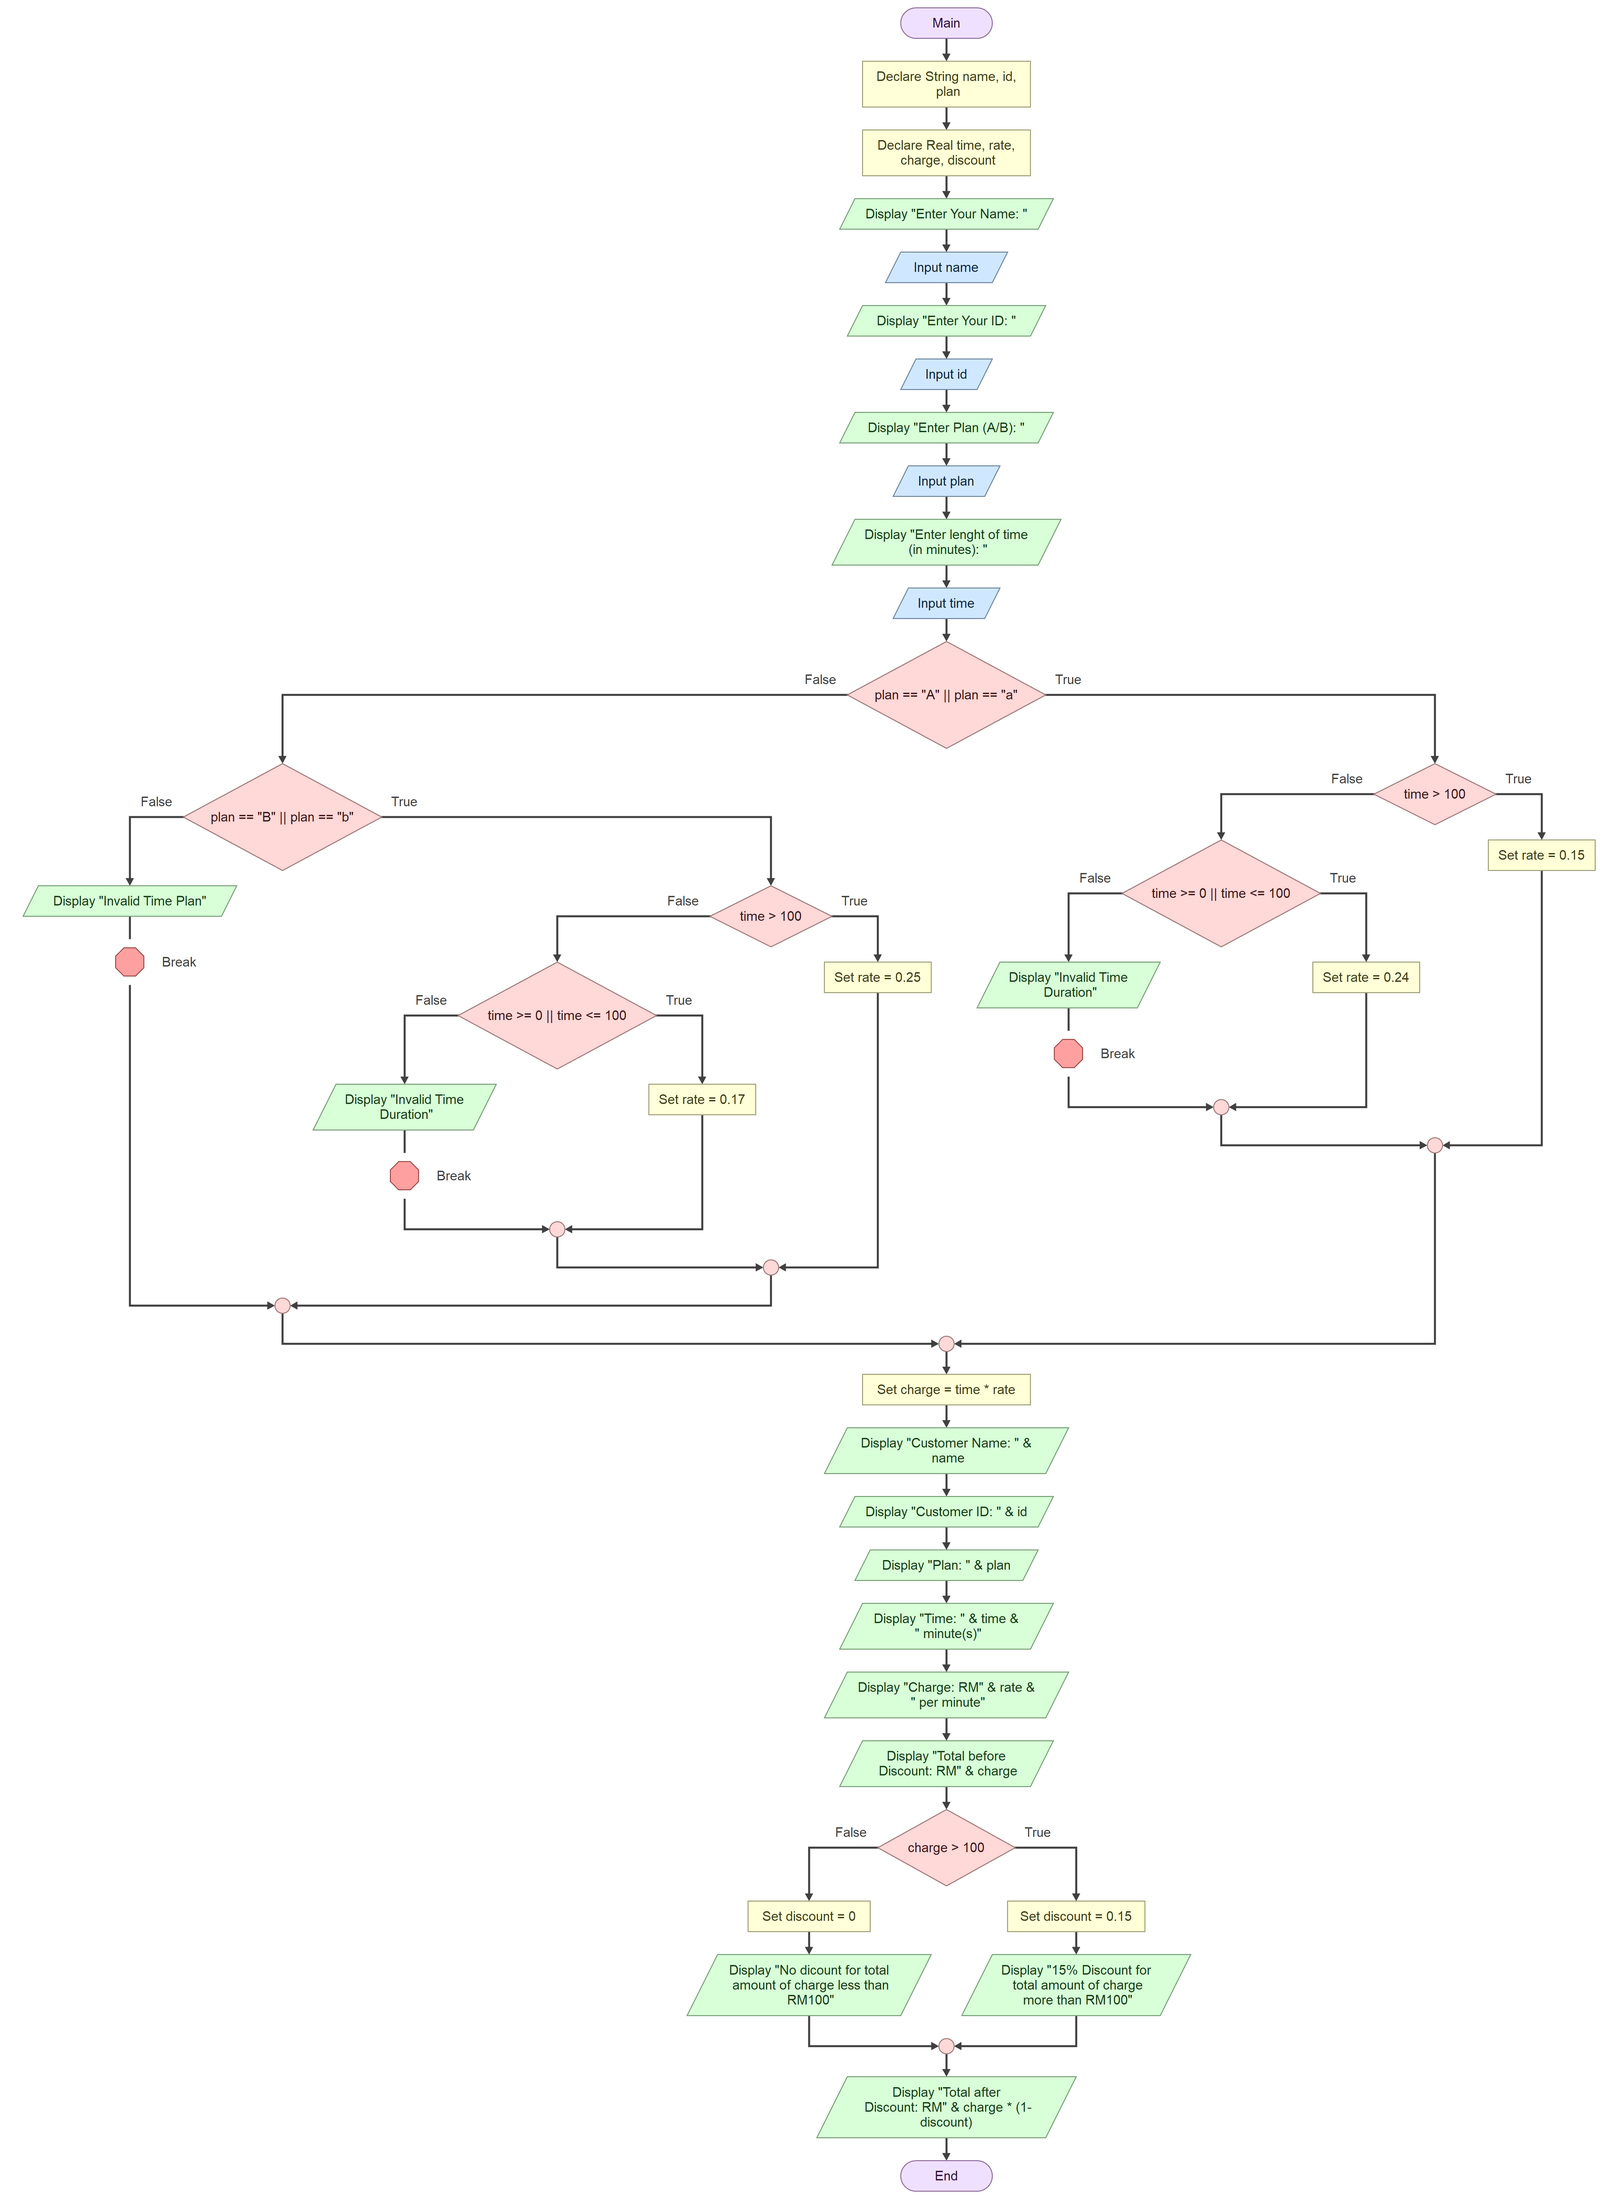
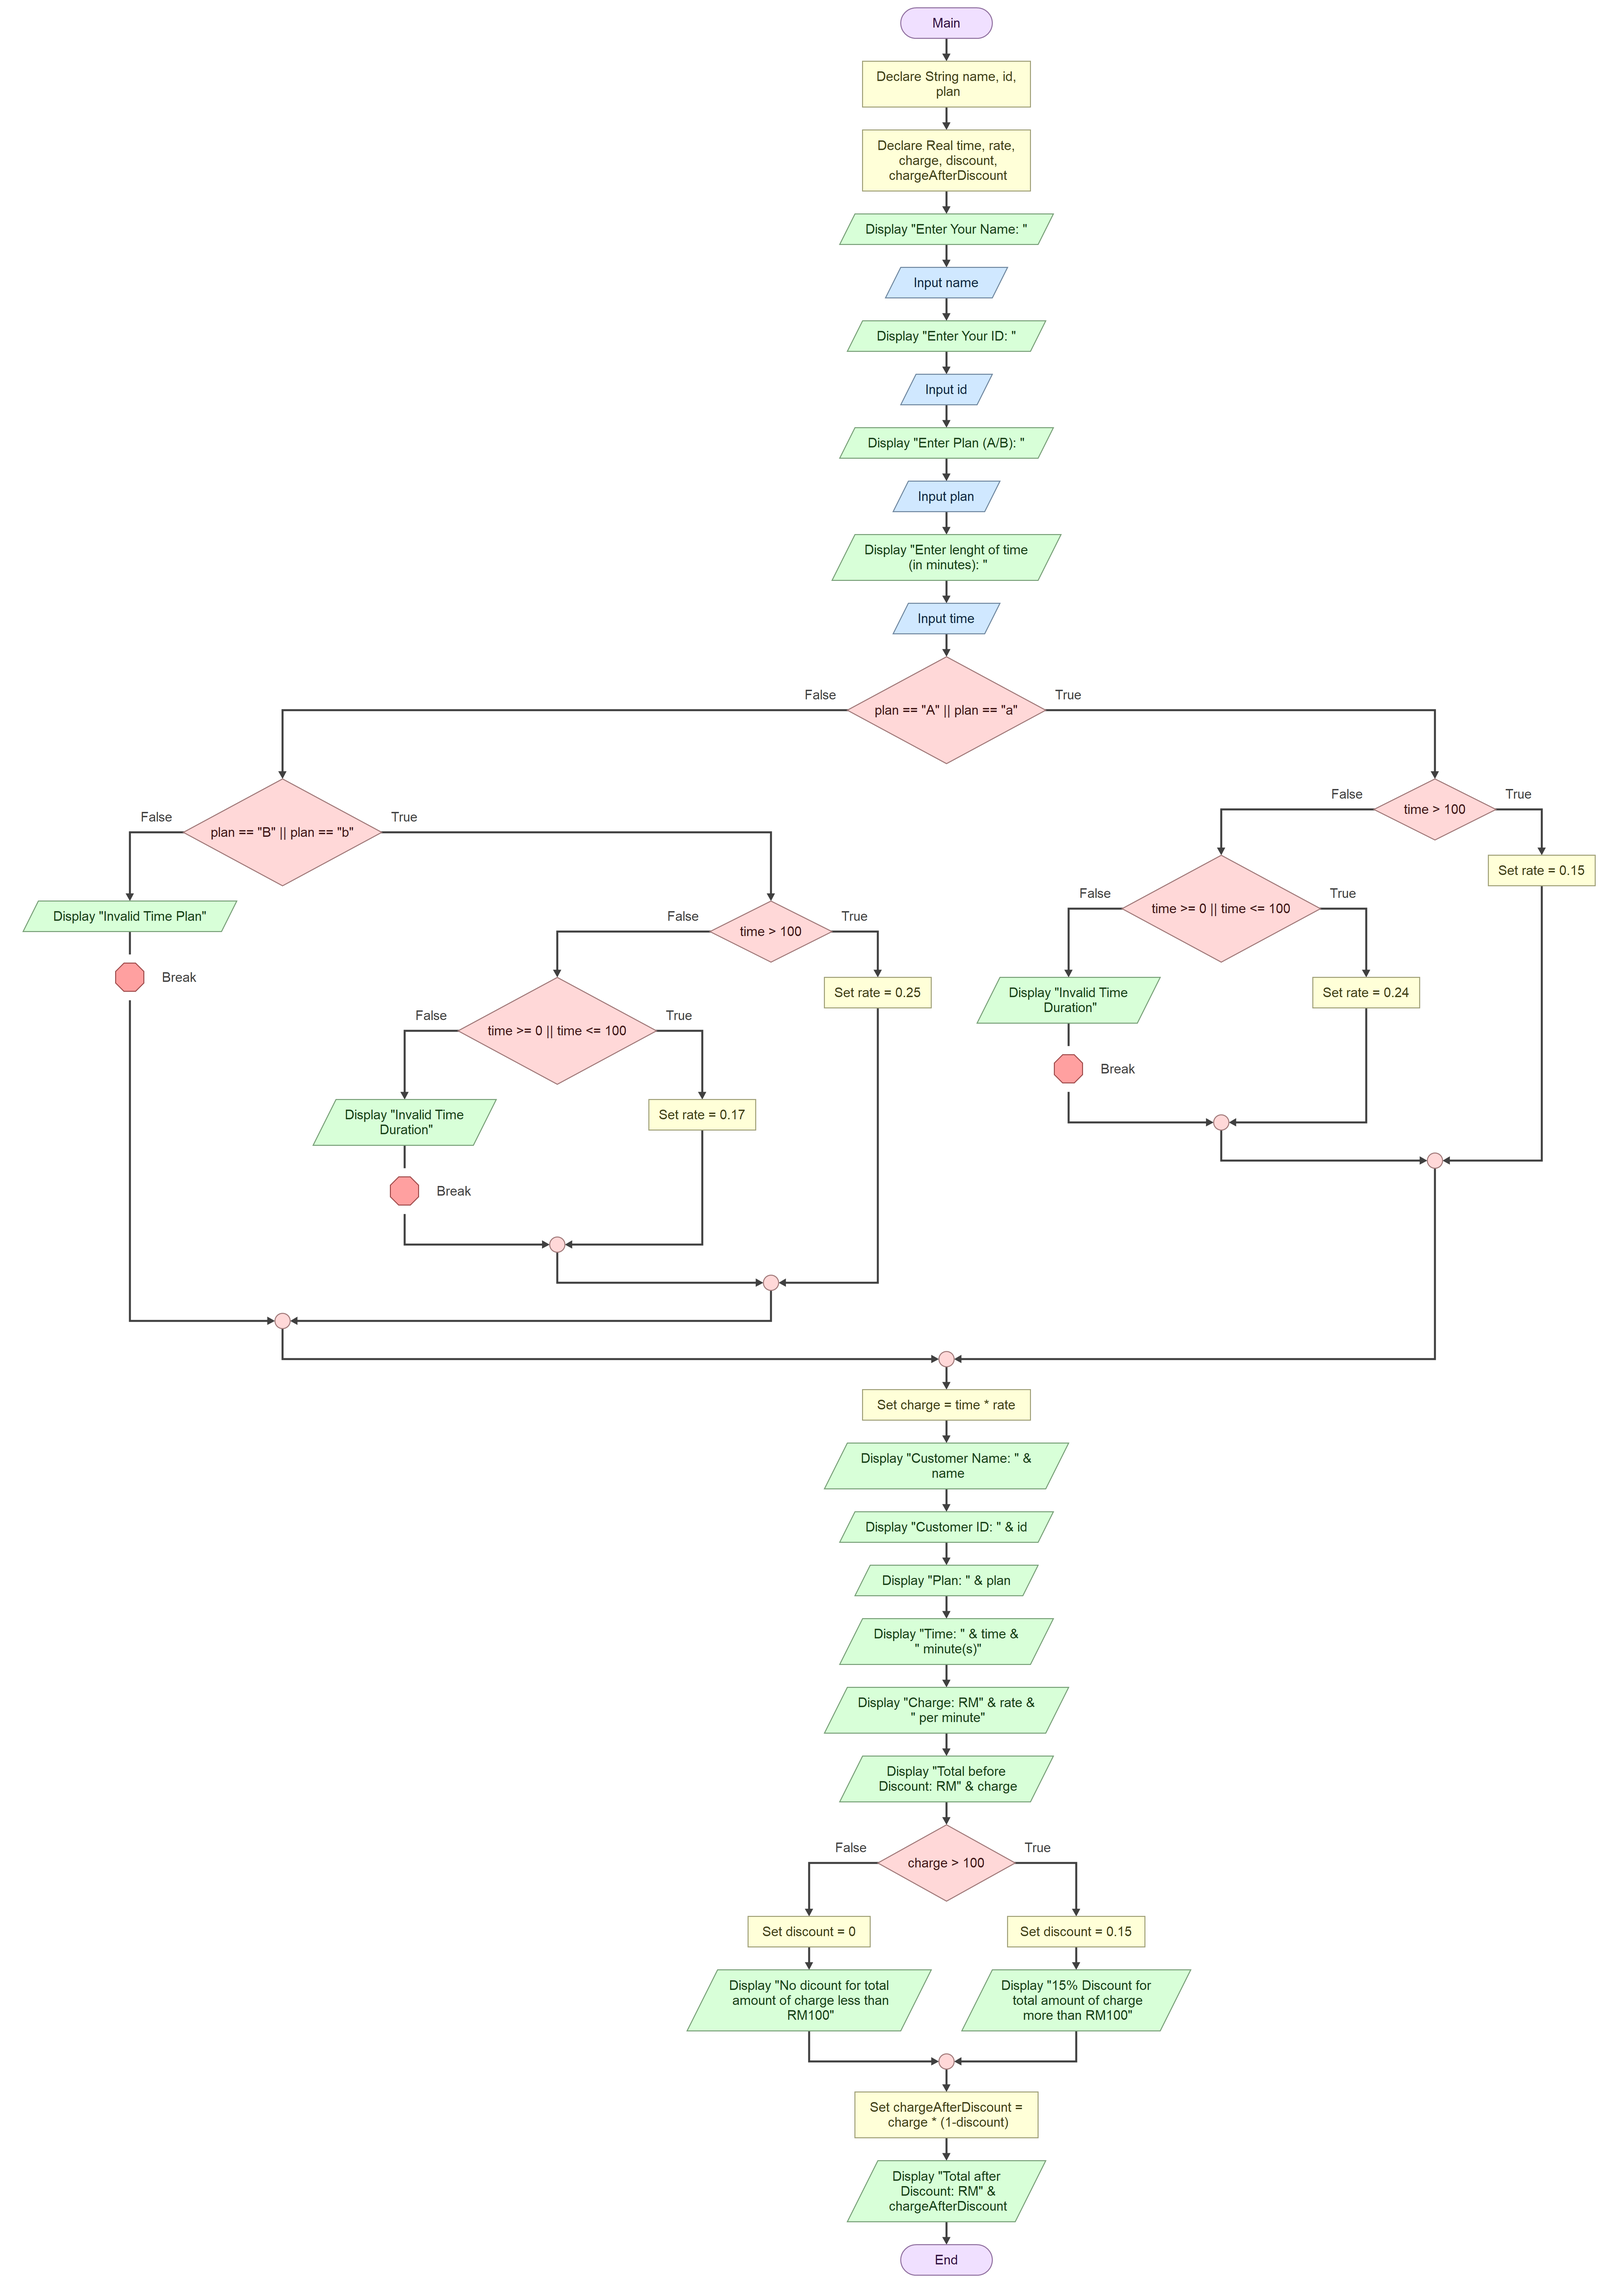
Update Answers

diff --git a/CSC121/W7 Selection Exercise/Exercise 2/01. IPO.md b/CSC121/W7 Selection Exercise/Exercise 2/01. IPO.md
@@ -1,0 +1,30 @@
+Input: name, id, plan, time
+
+Process:
+if plan == A
+    if time > 100
+        set rate = 0.15
+    else if time >= 0 || time <= 100
+        set rate = 0.24
+    else
+        "Invalid Time Duration"
+if plan == B
+    if time > 100
+        set rate = 0.25
+    else if time >= 0 || time <= 100
+        set rate = 0.17
+    else
+        "Invalid Time Duration"
+else
+    "Invalid Time Plan"
+
+calculate charge = time * rate
+
+if charge > 100
+    set discount = 0.15
+else
+    set discount = 0
+
+calculate chargeAfterDiscount = charge * (1-discount)
+
+Output: name, id, plan, time, charge, chargeAfterDiscount
